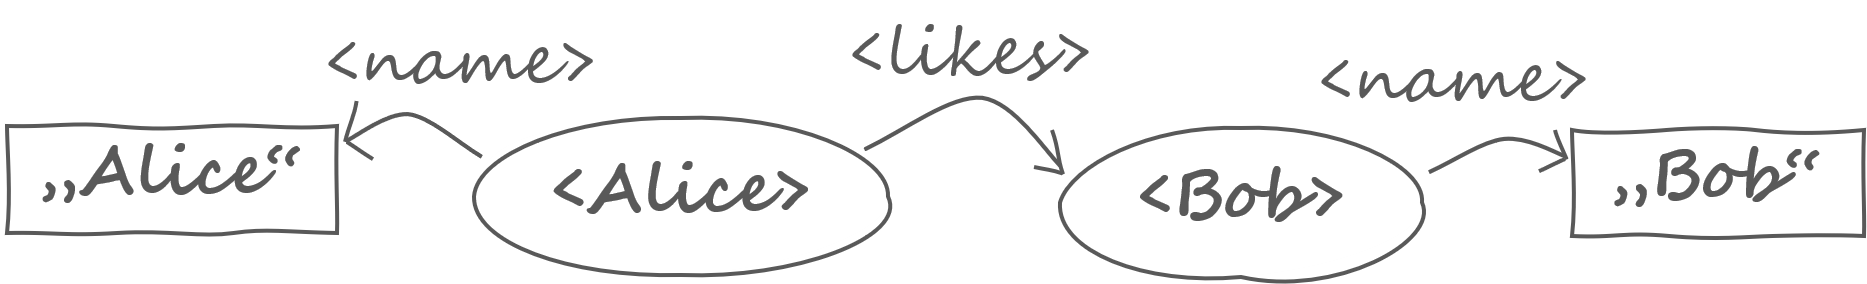
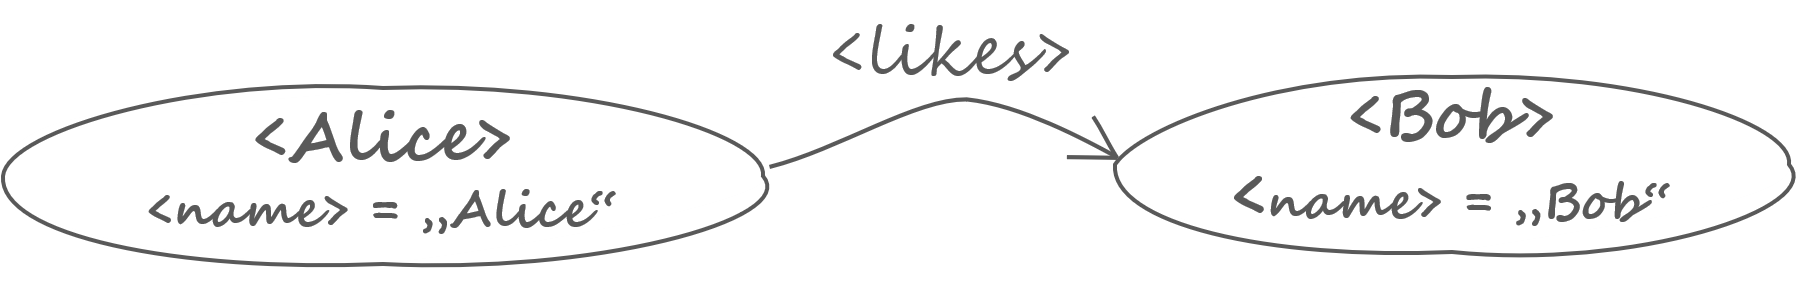
update

diff --git a/README.md b/README.md
@@ -3,22 +3,24 @@
 
 ## Abstract
 
-This is an essay about graphs like and and models.
+This is an essay about graphs and and models.
 The main question is how to bring together [__Resource Description Framework (RDF)__](https://www.w3.org/RDF/) and __Property Graphs (PG)__.
 The bridge is not a technical thing like [__RDF*__](https://github.com/w3c/rdf-star).
-The main difference between RDF and PG lies deeper in a basic decision how to do modelling.
+The main difference between RDF and PG lies deeper, in basic decisions how to do modeling.
 
-With this essay I want to investigate this modeling styles.
+With this essay I want to investigate distinct modeling styles.
 The conclusions are the foundation for a generalized view on graphs and modeling which in in turn is the basis for technical solutions that harmonize RDF and PGs. 
 
-## Alice and Bob
+## Making a Model
+
+### Alice and Bob
 
 <figure>
-<img src="image1.png" alt="Image1" width="30%"/>
+<img src="image1.png" alt="Image1" width="35%"/>
 <figcaption>Image 1.</figcaption>
 </figure>
 
-Let's talk about Alice and Bob. Alice is very fond of Bob, but there feelings of Bob for her are unknown. We now draw a picture of this situation. What we have done is already a model. A __model__ is a image of something, a simplified image of reality or a concept.
+Let's talk about Alice and Bob. Alice is very fond of Bob, but there feelings of Bob for her are unknown. We now draw a picture of this situation. What we have done is already a model. A __model__ is an image of something, a simplified image of reality or a concept.
 
 Our model has a concern: it is about persons and their relationship. There are things which are of interest and other things which are not considered here.
 When we gossip about Alice and Bob it might also be of interest that Bob is a tall, handsome man or that Alice has a new hairstyle. For the moment, we are ignoring all these facts. We can reduce our model so that it reflects only what we are talking about.
@@ -29,76 +31,207 @@ When we gossip about Alice and Bob it might also be of interest that Bob is a ta
 </figure>
  
 
-The new model is more abstract than the first. Can we continue with this abstracting process? If we look closely at the second image we see that the model consists of specific _elements_: There are bubbles, an arrow and words. 
-
-The bubbles and the arrow are very different . 
-Without knowing it we have already made a design decision: we are distinguishing between things and their relationship. Things are represented by bubbles and relationships are represented by arrows.
-
-To be able to recognize who we are talking about we use the individuals' names.
+The new model is more abstract than the first. Can we continue with this abstracting process? If we look closely at the second image we see that the model consists of specific _elements_: There are bubbles, an arrow and words. The bubbles and the arrow are very different . 
+Without knowing it we have already made a design decision: we are distinguishing between things and their relationship. Things are represented by bubbles and relationships are represented by arrows. To be able to recognize who we are talking about we use the individuals' names.
 The bubbles represent things which are _identified_ by a name.
 Also the relationship is identified by the word 'likes'.
 
-So far everything seemed to be very natural. If we develop our model further we have to we make more design decisions. This is a crucial point because the next steps are somehow arbitrary. 
+So far everything seemed to be very natural. If we develop our model further we have to we make more design decisions. This is a crucial point because the next steps are not mandatory, but each step is a decision.
 
-## Naming Things Unambiguously 
+### Naming Things Unambiguously 
 
 One might ask: "I know two women with the name 'Alice'. Which one do you mean?". Of course, we could simply use the family name, but let us try to solve this problem once for all.
 
-Creating a unique name is a very hard problem. You cannot prevent that anybody using the same name for something different. The only solution is to use a system that provides the technical and organizational means allows you to create, register and look up names globally. 
-
-The [Internet Corporation for Assigned Names and Numbers (ICANN)](https://www.icann.org/), more specifically the [Internet Assigned Numbers Authority (IANA)](https://www.iana.org) provides such a system, the Domain Name System and many other organizational services that allow you to create, register and maintain a globally unique technical name, the [__Uniform Resource Identifier (URI)__](https://tools.ietf.org/html/rfc3986).
+Creating an unique name is a very hard problem. You cannot prevent anybody of using the same name for something different. The only solution is to have a system that provides the technical and organizational means allows you to create, register and look up names globally. [__Uniform Resource Identifier (URI)__](https://tools.ietf.org/html/rfc3986) allow you to do exactly this.
 
 Let's create URIs for Alice and Bob. The technical Details of these URIs are not of interest here, therefore I simply write `<Alice>` and `<Bob>`. Anything in angle brackets is meant to be an URI.
 
-The name 'likes' is an English word but there is no reason why our model should be understood by everyone. So we also introduce an URI for the relationship `<likes>`.
-Now the model looks a bit more technial.
+The name 'likes' is an English word but there is no reason why our model should not be understood by everyone in the world. So we also introduce an URI for the relationship `<likes>`. Now the model looks a bit more technical.
 
 <figure>
 <img src="image3.png" alt="Image 3" width="35%"/>
 <figcaption>Image 3.</figcaption>
 </figure>
 
-## 
+### The Property Dichotomy
 
+With the last step we gained unique technical names but we lost the proper names of our friends. So we bring them back into the picture by labeling the bubbles. The labels are put into quotation marks to clearly distinguish them from the URIs.
 
 <figure>
-<img src="image4.png" alt="Image 4" width="50%"/>
+<img src="image4.png" alt="Image 4" width="60%"/>
 <figcaption>Image 4.</figcaption>
 </figure>
 
-
+The rectangular tags contain the proper names of Alice and Bob. The names belong to the persons only while the relationship is something that is shared by Alice and Bob. To clarify this the name properties are moved inside the bubbles.
 
 <figure>
 <img src="image5.png" alt="Image 5" width="60%"/>
 <figcaption>Image 5.</figcaption>
 </figure>
  
- 
-[Dan Marshall and Brian Weatherson: _Intrinsic vs. Extrinsic Properties_](<https://plato.stanford.edu/archives/spr2018/entries/intrinsic-extrinsic/>)
+
+Sure? The name of a human is not encoded in its DNA but given by the parents. So the name of a person is not a property but rather a person has an relationship to socially constructed symbol. The distinction between property and relation is artificial and conventional and for the sake of simplicity we use the term 'property'.
+Transferring this argumentation to the model image the tags become a special kind of bubble. 
+
+<figure>
+<img src="image6.png" alt="Image 6" width="60%"/>
+<figcaption>Image 6.</figcaption>
+</figure>
+
+Which way shall we go? You have to put the name somewhere, either _inside_ the bubble or _outside_. I call this problem the __Property Dichotomy: either distinguishing between properties and relations or not.__
+
+Both solutions have their advantages and disadvantages. The property-in-the-bubble solution is simpler in the sense that there only two bubbles but the bubbles have an _inner structure_. The property-outside-of-the-bubble solution has the advantage that the bubbles are  _atomic_ but it is more complex if you regard the number of arrows and bubbles. It is also more abstract because _the distinction between property and relationship has been neutralized_.
+
+
+### Epistemic Structure
+
+The next example shall demonstrate that the Property Dichotomy conceptual issue and has nothing to do whether something is drawn as a box or an oval.
+
+Alice and Bob both work as scientists. In fact, they meet each other in the cryptography laboratory. Let's add this information to the models.
+
+For the first variant we have to make a decision. Is 'employed as' a relation or a property? You can argue for both by saying that an employment is something that change during your career and that it is something that depends on external circumstances, or to say that is something that defines a person's status and its role in society. Another viewpoint is about the importance of this information is. Is the employment information of interest or is it supplementary?  Well, let's just _decide_ that is a property. We introduce the property `<employed as>` and assign it to the concept of a `<Scientist>`.
+
+<figure>
+<img src="image7.png" alt="Image 7" width="60%"/>
+<figcaption>Image 7.</figcaption>
+</figure>
+
+For the atomic graph there is nothing to decide. It is immediately clear how it must look like.
+
+<figure>
+<img src="image8.png" alt="Image 8" width="60%"/>
+<figcaption>Image 8.</figcaption>
+</figure>
+
+The results are very different. In the property-relation-model the bubbles have become thicker. We can recognize that there is a equivalence of the bubbles with respect to `<employed as>`. But we still see what it was all about from the beginning, that it was people. The model shows an epistemic structure. 
+
+On the other hand the atomic graph increased considerably. It immediately shows you that there is a connection between Alice and Bob via their jobs as scientists. Although  this information is secondary it is as prominent as everything else. Within the atomic model everything has the same importance, it is a democratic network of things without any obvious epistemic structure. 
+
+
+## Graph Styles
+
+So far I used the fuzzy terms 'bubble' and 'arrow' to emphasize that creating (drawing) a model implies operations on a very abstract level.
+The level of abstraction behind that of modeling is that of graphs.
+Weh you create a model you create a graph.
+But we have also seen that there are different variants of graphs. The choice of the __graph style__ has an important impact on the design, expressiveness and finally the epistemic structure of the model.
+
+
+### Property Graph
+
+The graph style that makes a distinction between property and relation is commonly known as __Property Graph (PG)__. There is no definite specification of PG, there are many variants, viewpoints and products. There is a Babylonian confusion of languages, every solution uses a different terminology. Three examples shall highlight the application of the PG style:
+
+
+- If there is any standard in the PG world it is the exchange file format 
+[__GraphML__](http://graphml.graphdrawing.org). Fortunately, GraphML is a XML application that is specified by a XML Schema. GraphML has a very mathematical point of view and uses the terms 'node', 'edge' and 'attribute'. (Unfortunately, GraphML renders unnecessary technical limitations. For example, the node identifier is limited to the XML datatype `NMTOKEN` which prohibits you from using an URI as node identifier.)
+
+
+- [__Apache TinkerPop__](https://tinkerpop.apache.org/) is a Java graph API and framework that is supported by many PG products. It uses the terms 'vertex', 'edge' and 'property'.
+
+
+- The classical paper of Peter Chen on the [__Entity-Relationship Model (ER)__](http://citeseerx.ist.psu.edu/viewdoc/download?doi=10.1.1.526.369&rep=rep1&type=pdf) provides a "unified view of data". Obviously, this essay is highly influenced by the ER concept and its universal claims. The ER model uses the terms 'entity', 'relationship' and 'attribute' .
 
 
 
-[Aristotle made a distinction between the essential and accidental properties of a thing](https://en.wikipedia.org/wiki/Accident_%28philosophy%29)
+There seems to be a subtle difference between the terms 'property' and 'attribute'. One might say that a property is characteristic of a thing and that is more or less bound to the object whereas an attribute is additional information that is attached or assigned to the object from outside.
+For example, the person's sex is a property because it is tightly bound to the person itself whereas
+a nickname is an attribute because it is a given to the person by others.
 
-__Entity-Relationship-Model (ER)__
+This implies that the difference of a property and an attribute is due the source of the information. We can overcome the distinction if there is a information about the context where the property or attribute assignment has been asserted. Under this assumption the terms can be considered synonymous. 
 
-[Peter Chen: _The Entity-Relationship Model - Toward a Unified View of Data_](http://citeseerx.ist.psu.edu/viewdoc/download?doi=10.1.1.526.369&rep=rep1&type=pdf)
+
+
+### Atomic Graph
+
+The graph style that applies the property-outside-the-bubble solution of the Property Dichotomy has no common name. Because the nodes (and edges) of this graph have no internal structure I believe the name __Atomic Graph__ is suitable.
+
+
+
+
+RDF has a history.
+
+
+
+
+Early design stages 
+
+
+
+### Relations with Properties
+
+So far only bubbles had properties. Of course, properties can be attached to arrows. It is a widespread view that annotated edges is a special feature of PG.
+RDF also allows you to add predicates to statements by using the reification vocabulary. RDF* will provide will greatly simplify this task. This issue has been left out because it is the intention of this essay to show that difference of PG and AG is based solely on the Property Dichotomy.
+
+
+
+## Modeling Levels
+
 
 
 [Colin Atkinson, Matthias Gutheil and Kilian Kiko: _On the Relationship of Ontologies and Models_](https://cs.emis.de/LNI/Proceedings/Proceedings96/GI-Proceedings-96-3.pdf)
 
-Changing the URI means changing the identity. So the URI is a essential property of an entity. The URI is the only essential property,  everything else is accidential.
 
-Something that can be identified by an URI is a resource, and vice versa if a resource is a thing that is identified by a resource.
+
+
+### The Information Graph
+
+
+
+An __Entity__ is a thing which can be distinctly identified.
+
+A __Relation__ is an association among entities.
+
+A __Property__ specifies information about an Entity or a Relation by which it is owned.
+
+
+### Entity
+
+The term 'entity' is heavily overloaded. It is used with different meanings in different contexts.
+and it would to circumlocutory to discuss them. In the end the basic meaning is that it is a thing we talk about. An Entity can be distinguished from other Entities. If we cannot not distinguish two things then we have to consider them as _the same_.
+
+It is important to understand that 'entity' means is 'a thing as a whole' with respect to our current model. When something is denoted as 'entity' this is not a assertion about its ontological status.
+It means that something is considered to be a whole thing within the current model.
+
+An Entity does not contain other Entities. As soon as you look into an entity and identify parts then you leave the current model and you enter new one. The entity disappears and new entities show up. 
+
+### Relation
+
+The term 'relation' is a stronger then 'association'. If you can bring two things into the same context they already become associated. It basically means grouping. A relation is a more specific form of association that is adds the notation of the relation kind, a direction and other relation properties like transitivity or symmetry. A relation exists only among entities.
+
+
+### Property
+
+
+
+A resource is something that is identified by an URI and vice versa if something can be identified by URI it is a resource.
+
+Changing the URI means changing the identity. So the URI is a essential property of an entity. The URI is the only essential property, everything else is accidental.
 
 Resource is a technical term, entity is something conceptual.
 
-An entity is a resource that is also 
+An entity is a resource but not every resource is an entity. 
 
 
 
 
-[Roy Fielding: _Architectural Styles and the Design of Network-based Software Architectures_](https://www.ics.uci.edu/~fielding/pubs/dissertation/top.htm)
+Properties have no existence on their own, their existence is bound the owning entity.
+
+Properties contain the information you have to copy when you create a clone of an entity.
 
 
-[Hypertext Transfer Protocol - HTTP/1.1](https://tools.ietf.org/html/rfc2616)
+If an entity is destroyed its properties are also destroyed. The relations are also destroyed but not the related entities.
+
+
+
+
+
+Domain Model == Types + Instances
+
+
+
+### Simple versus Complex Properties
+
+XML Schema analogy
+
+
+
+
